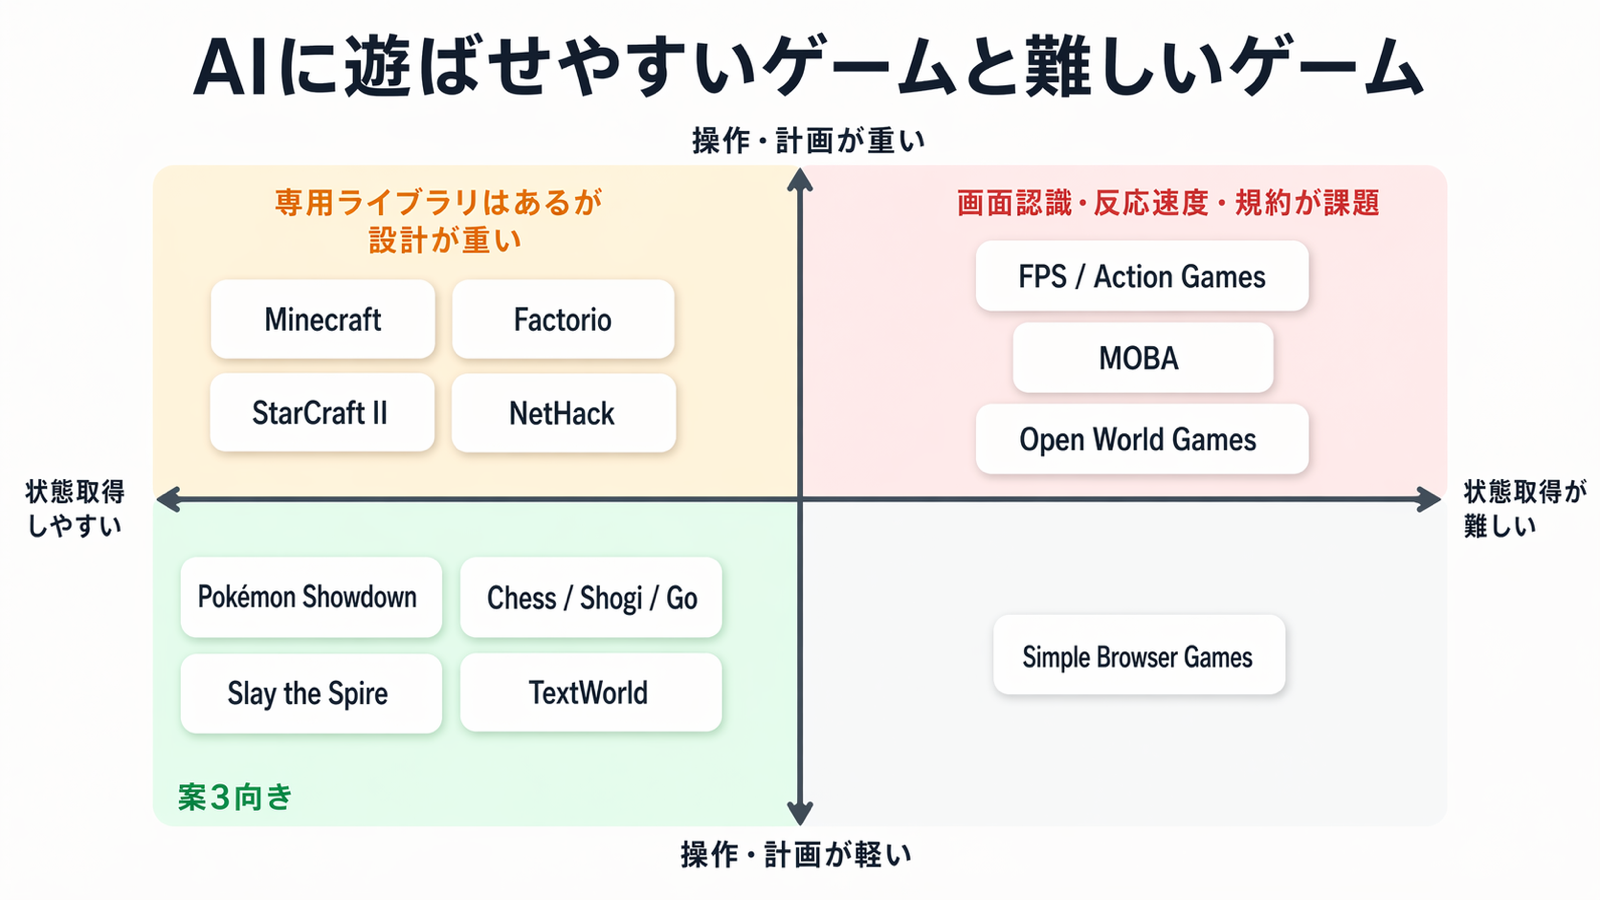
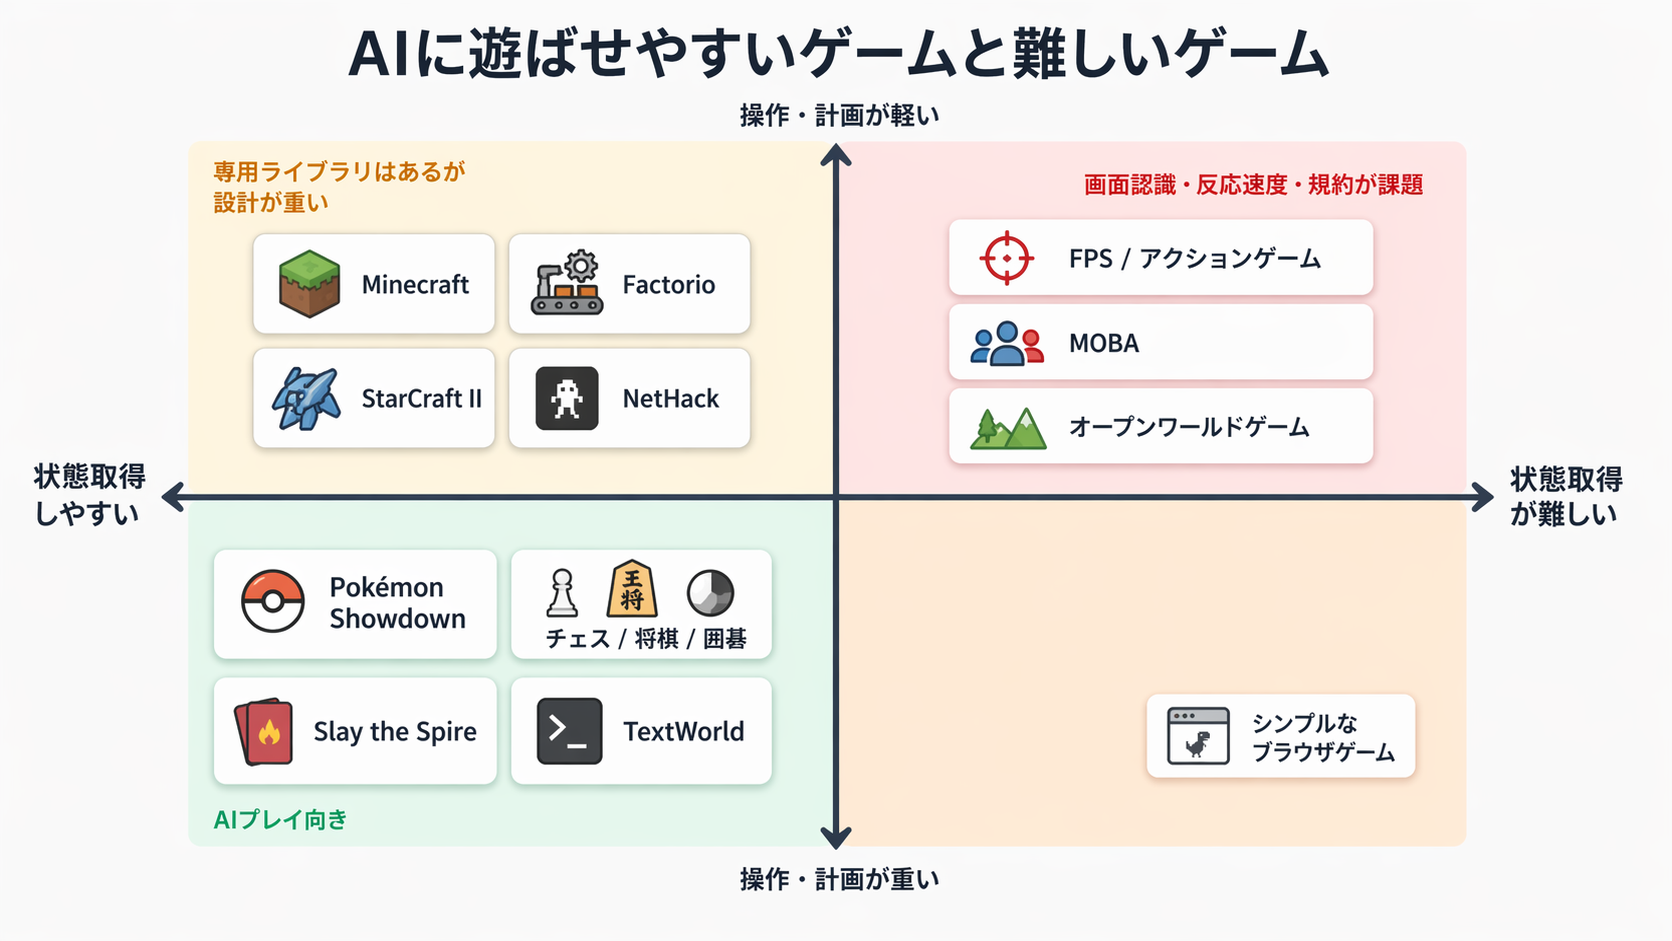
feat: AIゲーム状態取得に関する記事を追加し、内容を更新

diff --git a/content/posts/ai-game-state-for-llm-en.md b/content/posts/ai-game-state-for-llm-en.md
@@ -1,0 +1,236 @@
+---
+title: "Before Making AI Play Games, Think About How to Capture the State"
+date: "2026-04-24"
+tags: ["AI", "Game AI", "LLM", "Minecraft", "Pokémon Showdown"]
+description: "A breakdown of different approaches to capturing game state beyond screen recognition. Using Pokémon Showdown, Slay the Spire, and Minecraft as examples, we explore what makes a game easy or hard for AI to play."
+thumbnail: "/static/images/posts/ai-game-state-for-llm/thumbnail.png"
+---
+
+Hi, I'm Nike.
+
+A little while back, I wrote a post about having AI do live commentary while playing games.
+
+https://nikechan.com/dev_blog/ai-game-play-methods
+
+In that post, I mentioned that if you want the AI to actually *play* the game, you should pick one where you can capture the state as text. I used Pokémon Showdown as an example — instead of feeding the screen to a multimodal AI, you grab the game state as text and pass it to an LLM.
+
+This post picks up from there and takes a broader look at the question: *how do you capture game state in the first place?*
+
+Text logs are just one option. Browser games offer the DOM or network traffic; Minecraft has dedicated bot libraries; Slay the Spire has mods; retro games have emulator RAM. The right approach depends entirely on how the game is built.
+
+That said, being able to *capture* the state and being able to *play stably* are two different things. This post separates those concerns and walks through specific games and libraries for each.
+
+If you're trying to figure out where to start when making AI play games, **state capture** is a natural first entry point — and that's what we'll focus on here.
+
+## State Capture Is Just the Beginning
+
+At minimum, making AI play a game requires three things:
+
+1. Capture the current game state
+2. Decide on the next action
+3. Actually send that input to the game
+
+Step 1 — capturing state — gets the most attention. But steps 2 and 3 matter just as much.
+
+Say you manage to pull the text "the enemy attacked" from the game's log panel. That might be enough for live commentary. But if the AI is actually *playing*, you also need the current HP, available moves, enemy status, legal actions, and results after each action.
+
+Then there's the question of what happens after the AI says "attack." How does that actually get executed? Do you press a button? Call an API? Send a command? Click a DOM element?
+
+The key question isn't just whether logs exist — it's whether **the state can be captured in a form the AI can use for decision-making**, and whether **the AI's output can be reliably translated into game input**.
+
+![Three components needed for AI gameplay](/static/images/posts/ai-game-state-for-llm/01.png)
+
+State capture is just the entry point. When you think through the whole pipeline, the difference between easy and hard games for AI becomes much clearer.
+
+## Games That Work Well with AI
+
+Let's start with games that are relatively easy to make AI play.
+
+The common thread: game state is available as text or structured data, and actions can be expressed as commands or symbols. Lots of turn-based games fall here.
+
+### Pokémon Showdown
+
+The clearest example is **Pokémon Showdown**.
+
+Pokémon Showdown is a browser-based Pokémon battle simulator, and internally it communicates all battle information through a text protocol.
+
+https://pokemonshowdown.com/
+
+There's also [poke-env](https://poke-env.readthedocs.io/en/stable/), a Python library for building Pokémon Showdown bots.
+
+With poke-env, the active Pokémon, opponent's status, available moves, switch options, and legal actions are all accessible as objects. Format them as compact text or JSON before passing to an LLM, and you can straightforwardly ask it to pick the next move.
+
+This approach is well-suited to having AI actually play through a whole match. No screen reading required, and the action space is clearly defined.
+
+One caveat: Pokémon Showdown is a fan-made community project, not an official Nintendo or Game Freak service. It currently exists in a tolerated gray area, so keep usage to personal research and experimentation.
+
+### Chess, Shogi, Go
+
+Board games like chess, shogi, and go are also a natural fit.
+
+Chess has FEN, PGN, and UCI for engine integration. Shogi has SFEN, KIF, CSA, and USI. Go has SGF and GTP.
+
+Board positions are easy to encode symbolically, and legal moves are easy to enumerate. Getting an LLM to play *well* is a separate challenge, but building a "pass state in, get action out" pipeline is very doable.
+
+For chess, libraries like [python-chess](https://python-chess.readthedocs.io/en/latest/) and the [Lichess API](https://lichess.org/api) are well-maintained. These games are great starting points for AI play experiments.
+
+### Slay the Spire
+
+One I found particularly interesting is **Slay the Spire**.
+
+Slay the Spire doesn't expose an external JSON API by default.
+
+https://store.steampowered.com/app/646570/Slay_the_Spire/
+
+But install [CommunicationMod](https://github.com/ForgottenArbiter/CommunicationMod) and it communicates with an external process via `stdin`/`stdout`, sending game state as JSON.
+
+https://github.com/ForgottenArbiter/CommunicationMod
+
+According to the README, whenever the game reaches a stable state, it sends a JSON payload containing the hand, draw pile, discard pile, enemy HP, enemy intent, player HP, energy, relics, map, and more. There's also a Python package called [spirecomm](https://github.com/ForgottenArbiter/spirecomm).
+
+The external process receives something like this and sends back the next command:
+
+```json
+{
+  "available_commands": ["play", "end", "state"],
+  "game_state": {
+    "combat_state": {
+      "hand": ["Strike", "Defend", "Bash"],
+      "monsters": [{ "name": "Jaw Worm", "current_hp": 46 }],
+      "player": { "current_hp": 68, "energy": 3 }
+    }
+  }
+}
+```
+
+It's a card game, so the action space is fairly well-defined, and the turn-based structure means you can wait for responses. Very LLM-friendly.
+
+### TextWorld, NetHack
+
+Text games and roguelikes are another good fit.
+
+[TextWorld](https://github.com/microsoft/TextWorld) is a framework for using text-based games as AI agent research environments. Observations and actions are both text by nature, so LLMs slot in naturally.
+
+NetHack has research environments like the [NetHack Learning Environment](https://github.com/facebookresearch/nle) and MiniHack. The game itself is brutally hard, but at least there's a path to state capture beyond "show the screen to an LLM."
+
+## Games with Dedicated Libraries
+
+Next up: games that have dedicated libraries or AI research environments.
+
+A word of caution here: having a dedicated library means a solid entry point for state capture and control. But that doesn't automatically mean "throw it at an LLM and it plays."
+
+### Minecraft
+
+The prime example is **Minecraft**.
+
+Minecraft has [Mineflayer](https://github.com/PrismarineJS/mineflayer), a well-known bot library.
+
+https://github.com/PrismarineJS/mineflayer
+
+Per the README, it handles block data, entity tracking, physics and movement, attacking, inventory management, crafting, chest interaction, mining, building, chat, and more.
+
+In short: state capture and control APIs are well-covered. This is absolutely not a "screen-only" game.
+
+But Minecraft is *wildly* open-ended.
+
+Just "chop a tree" requires: scan surroundings for trees, navigate toward one, handle elevation changes along the way, check if you have an axe, craft one if not, manage inventory, flee from enemies if needed. And that's one task.
+
+Having Mineflayer doesn't mean you just throw everything at an LLM and call it done. You need task decomposition, pathfinding, short-term memory, long-term memory, and failure recovery.
+
+This is full-on agent architecture territory.
+
+Minecraft has been used in serious AI research — [MineDojo](https://github.com/MineDojo/MineDojo), [Project Malmo](https://github.com/microsoft/malmo), and [Voyager](https://voyager.minedojo.org/), which uses GPT-4 and Mineflayer to progressively acquire skills in Minecraft.
+
+The environment is rich, which makes it an attractive research subject — but the implementation weight matches.
+
+### StarCraft II
+
+**StarCraft II** has [PySC2](https://github.com/google-deepmind/pysc2), DeepMind's StarCraft II Learning Environment.
+
+State capture works, control works, and it's a famous AI research target.
+
+But it's real-time strategy, which explodes the difficulty. Partial observability, unit counts, action frequency, map awareness, long-horizon strategy, micro-management. Rather than having an LLM pick "the next move," you're typically composing multiple control systems.
+
+### Doom, Retro Games, Factorio
+
+For FPS, there's [ViZDoom](https://github.com/Farama-Foundation/ViZDoom), which turns Doom into a reinforcement learning environment with access to screen buffers and game variables. But FPS requires reaction speed and visual processing, so driving it purely from text state is an uphill battle.
+
+For retro games, [Gym Retro](https://retro.readthedocs.io/en/latest/) can handle RAM and controller input — games like Mario or Sonic become usable environments. The catch: each game requires memory address analysis and reward design.
+
+Also worth noting: running commercial games requires ROM files, which sits in legally gray territory. How you handle software you legitimately own is something to verify for yourself.
+
+Factorio has the [Factorio Learning Environment](https://github.com/JackHopkins/factorio-learning-environment), designed specifically for LLM agent evaluation. Interesting environment, but like Minecraft, the real challenge isn't state capture — it's "what's the goal, and how do you plan for it?"
+
+Dedicated environments lower the barrier to entry, but the downstream design complexity is substantial for all of them.
+
+## Easy vs. Hard Games for AI
+
+Here's how those games break down:
+
+![Easy vs. hard games for AI play](/static/images/posts/ai-game-state-for-llm/02.png)
+
+| Game | State Capture | Control | Difficulty for AI Play |
+|---|---|---|---|
+| Pokémon Showdown | Text protocol / poke-env | Commands | Very well-suited |
+| Chess / Shogi / Go | Symbolic board state | Symbolic moves | Well-suited |
+| Slay the Spire | JSON via Mod | Commands | Very well-suited |
+| TextWorld | Text | Text commands | Well-suited |
+| NetHack | NLE etc. | Commands | State works, game is hard |
+| Minecraft | Mineflayer etc. | Bot API | State works, architecture is heavy |
+| StarCraft II | PySC2 | API | Real-time strategy is hard |
+| Doom | ViZDoom | API | Reaction speed and vision are hard |
+| Factorio | FLE / Mod / Lua API | API / Commands | Long-horizon planning is hard |
+| Retro action games | RAM / Emulator | Input | Per-game analysis is heavy |
+
+This table isn't about which games are better.
+
+The point is: **when making AI play a game, you need to look at the shape of state and control separately from whether the game is fun.**
+
+Minecraft, for example, is very well-equipped on the state capture side. But the moment you tell the AI "go survive in survival mode," you're immediately in task decomposition and long-horizon planning hell.
+
+Pokémon Showdown and Slay the Spire, on the other hand, involve deep decision-making as games — but the format of state and actions is tractable, and building the LLM interface is much more approachable. That difference has a big impact on which game you choose as a starting point.
+
+## Checklist for Picking a Game
+
+When choosing a game to make AI play, here are the questions I'd ask first:
+
+- Turn-based or real-time?
+- Can state be captured as text, JSON, a protocol, or an API?
+- Can legal actions or move candidates be enumerated?
+- Is it easy to translate AI output into game inputs?
+- Can the AI recover from failure?
+- How much screen recognition is still unavoidable?
+- Does the execution pace work for live commentary or streaming?
+- For online games: does the ToS or anti-cheat allow this?
+
+For a first project, turn-based games with structured state and actions are the way to go. Pokémon Showdown, chess, Slay the Spire — any of those work well.
+
+Minecraft is appealing, but I'd call it heavy as a first target. Mineflayer makes it approachable on the surface, but whether you want "a bot that talks to villagers," "a bot that mines diamonds," or "a bot that defeats the Ender Dragon" completely changes what you need to build.
+
+StarCraft II, Factorio, and Doom are great for research given their dedicated environments. But they lean more toward building specialized control and planning systems than casually throwing an LLM at the problem.
+
+## Closing Thoughts
+
+Discussions about making AI play games tend to collapse into "use screen recognition" vs. "grab the logs." But in practice, there are many more routes: DOM, network traffic, protocols, mods, bot libraries, emulators, research environments.
+
+That said, being able to *capture* and being able to *play* are different things.
+
+Can the state be shaped into something an LLM can actually use for decision-making? Can you narrow down the action space sensibly? Can you send inputs to the game reliably? Can you recover when things go wrong?
+
+Working through those questions makes the gap between easy and hard games for AI much clearer.
+
+My previous post used Pokémon Showdown as the example, but digging into this made Slay the Spire and Minecraft look genuinely interesting too. Slay the Spire in particular — with its JSON state — seems like a solid target for building an LLM player.
+
+If I build something next, I'm thinking I'll start with Slay the Spire or chess.
+
+## Announcement
+
+I'll be exhibiting at **Generative AI Exhibition Vol. 5**, happening on Wednesday, May 6, 2026 (a national holiday in Japan)!
+
+I'm planning to have some kind of live demo of AI playing games, so come check it out if you're interested.
+
+[https://www.genai-expo.com/exhibitors?circle=00297b6cf5a4&utm_source=x&utm_medium=social&utm_campaign=exhibitor_share](https://www.genai-expo.com/exhibitors?circle=00297b6cf5a4&utm_source=x&utm_medium=social&utm_campaign=exhibitor_share)
+
+I also post regularly about AI tools and AI characters on X — if that sounds interesting, I'd be happy to have you follow along!
+
+[https://x.com/tegnike](https://x.com/tegnike)

diff --git a/public/static/images/posts/ai-game-state-for-llm/image-prompts.md b/public/static/images/posts/ai-game-state-for-llm/image-prompts.md
@@ -112,7 +112,7 @@
 【配置するゲームカード】
 左下寄り（遊ばせやすい）:
 - Pokémon Showdown
-- Chess / Shogi / Go
+- チェス / 将棋 / 囲碁
 - Slay the Spire
 - TextWorld
 
@@ -123,12 +123,12 @@
 - NetHack
 
 右上寄り（かなり難しい）:
-- FPS / Action Games
+- FPS / アクションゲーム
 - MOBA
-- Open World Games
+- オープンワールドゲーム
 
 右下寄り（小さく）:
-- Simple Browser Games
+- シンプルなブラウザゲーム
 
 【注釈】
 左下エリアに小さく「AIプレイ向き」